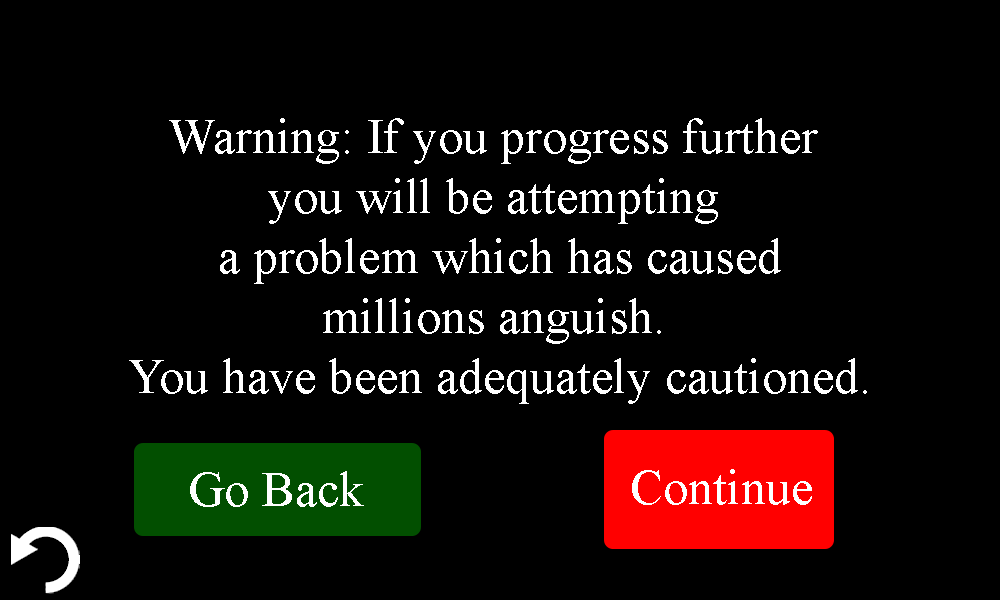
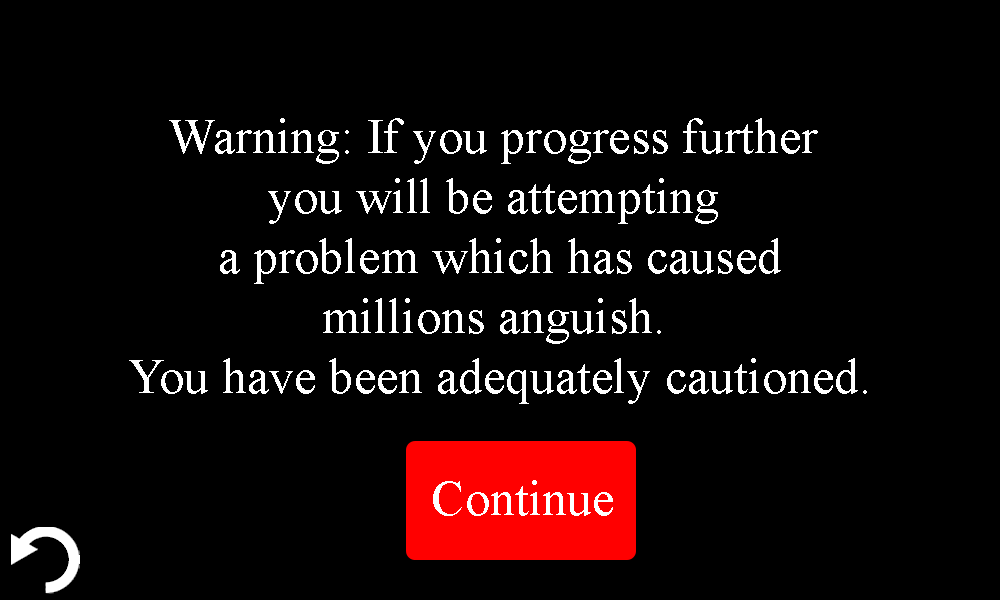
Completed Screen navigation

Changed region(s): [[0.124, 0.69, 0.837, 0.96]]

diff --git a/src/ClockProblem.java b/src/ClockProblem.java
@@ -6,13 +6,12 @@ import java.awt.event.MouseListener;
 
 public class ClockProblem implements KeyListener, MouseListener {
 
-
-
-    public final static Button UNDO = new Button(11, 526, 69,67);
+    public final static Button UNDO = new Button(11, 526, 69, 67);
     private ClockProblemViewer window;
 
     private Screen root;
     private Screen currentScreen;
+
     public ClockProblem() {
         initScreens();
         currentScreen = root;
@@ -20,6 +19,14 @@ public class ClockProblem implements KeyListener, MouseListener {
         window.addMouseListener(this);
         window.addKeyListener(this);
 
+    }
+
+    public Screen getCurrentScreen() {
+        return currentScreen;
+    }
+
+    public void setCurrentScreen(Screen currentScreen) {
+        this.currentScreen = currentScreen;
     }
 
     public Screen getRoot() {
@@ -31,10 +38,10 @@ public class ClockProblem implements KeyListener, MouseListener {
     }
 
     public void initScreens() {
-        root = new Screen(1,1,new ImageIcon("Resources/title.png").getImage(),null);
-        Screen options = new Screen(4,5,new ImageIcon("Resources/options.png").getImage(),root);
+        root = new Screen(1, new ImageIcon("Resources/title.png").getImage(), null);
+        Screen options = new Screen(4, new ImageIcon("Resources/options.png").getImage(), root);
 
-        Button b = new Button(279, 442,443,113);
+        Button b = new Button(279, 442, 443, 113);
         Button[] bArr = new Button[1];
         bArr[0] = b;
         root.setB(bArr);
@@ -43,25 +50,34 @@ public class ClockProblem implements KeyListener, MouseListener {
         s[0] = options;
         root.setS(s);
 
-        bArr = new Button[5];
+        Screen minutes = new Screen(1, new ImageIcon("Resources/input1.png").getImage(), options);
+        // Continue
+        bArr = new Button[1];
+        bArr[0] = new Button(351, 519, 261, 74);
+        minutes.setB(bArr);
 
-        Screen minutes = new Screen(1,2, new ImageIcon("Resources/input1.png").getImage(),options);
-        b = new Button(1, 142,443,113);
-        bArr[0] = b;
-
-
-        Screen seconds = new Screen(1,2, new ImageIcon("Resources/input2.png").getImage(),options);
-        b = new Button(544, 145,421,100);
-        bArr[1] = b;
+        Screen seconds = new Screen(1, new ImageIcon("Resources/input2.png").getImage(), options);
+        bArr = new Button[1];
+        bArr[0] = new Button(369, 519, 262, 75);
+        seconds.setB(bArr);
 
         Screen overlap = minutes;
-        b = new Button(45, 381,416,78);
+
+        Screen warning = new Screen(1, new ImageIcon("Resources/warning.png").getImage(), options);
+        bArr = new Button[1];
+        bArr[0] = new Button(405, 440, 232, 121);
+        warning.setB(bArr);
+
+        bArr = new Button[4];
+        b = new Button(1, 142, 443, 113);
+        bArr[0] = b;
+        b = new Button(544, 145, 421, 100);
+        bArr[1] = b;
+        b = new Button(45, 381, 416, 78);
         bArr[2] = b;
-
-
-        Screen warning = new Screen(1,2, new ImageIcon("Resources/warning.png").getImage(),options);
-        b = new Button(575, 382,370,85);
+        b = new Button(575, 382, 370, 85);
         bArr[3] = b;
+        options.setB(bArr);
 
         s = new Screen[4];
         s[0] = minutes;
@@ -69,13 +85,14 @@ public class ClockProblem implements KeyListener, MouseListener {
         s[2] = overlap;
         s[3] = warning;
         options.setS(s);
-        options.addButtons(bArr);
 
-
-        Screen spider = new Screen(1,2, new ImageIcon("Resources/input3.png").getImage(), warning);
+        Screen spider = new Screen(1,  new ImageIcon("Resources/input3.png").getImage(), warning);
         s = new Screen[1];
         s[0] = spider;
         warning.setS(s);
+        bArr = new Button[1];
+        b = new Button(520,560,180,51);
+        bArr[0] = b;
     }
 
     @Override
@@ -102,12 +119,12 @@ public class ClockProblem implements KeyListener, MouseListener {
     public void mousePressed(MouseEvent e) {
         System.out.println("stuff");
         for (int i = 0; i < currentScreen.getB().length; i++) {
-            if(currentScreen.getB()[i].isClicked(e.getX(),e.getY())) {
+            if (currentScreen.getB()[i].isClicked(e.getX(), e.getY())) {
                 currentScreen = currentScreen.getS()[i];
                 window.repaint();
             }
         }
-        if(UNDO.isClicked(e.getX(),e.getY()) && currentScreen != root) {
+        if (UNDO.isClicked(e.getX(), e.getY()) && currentScreen != root) {
             currentScreen = currentScreen.getParent();
             window.repaint();
         }
@@ -128,6 +145,7 @@ public class ClockProblem implements KeyListener, MouseListener {
     public void mouseExited(MouseEvent e) {
 
     }
+
     public static void main(String[] args) {
         ClockProblem c = new ClockProblem();
 

diff --git a/src/Button.java b/src/Button.java
@@ -6,6 +6,10 @@ public class Button {
     private Image i;
 
     public Button(int x, int y, int width, int height ) {
+
+        int cornerX = x - width/2;
+        int cornerY = y + height/2;
+
         this.x = x;
         this.y = y;
         this.width = width;

diff --git a/src/Screen.java b/src/Screen.java
@@ -7,7 +7,7 @@ public class Screen {
 
     Button[] b;
 
-    public Screen(int sSize, int bSize, Image i, Screen sc) {
+    public Screen(int sSize, Image i, Screen sc) {
         s = new Screen[sSize];
         this.i = i;
         parent = sc;

diff --git a/src/ClockProblemViewer.java b/src/ClockProblemViewer.java
@@ -20,6 +20,6 @@ public class ClockProblemViewer extends JFrame {
 
     @Override
     public void paint(Graphics g) {
-        c.getRoot().draw(g,this);
+        c.getCurrentScreen().draw(g,this);
     }
 }
